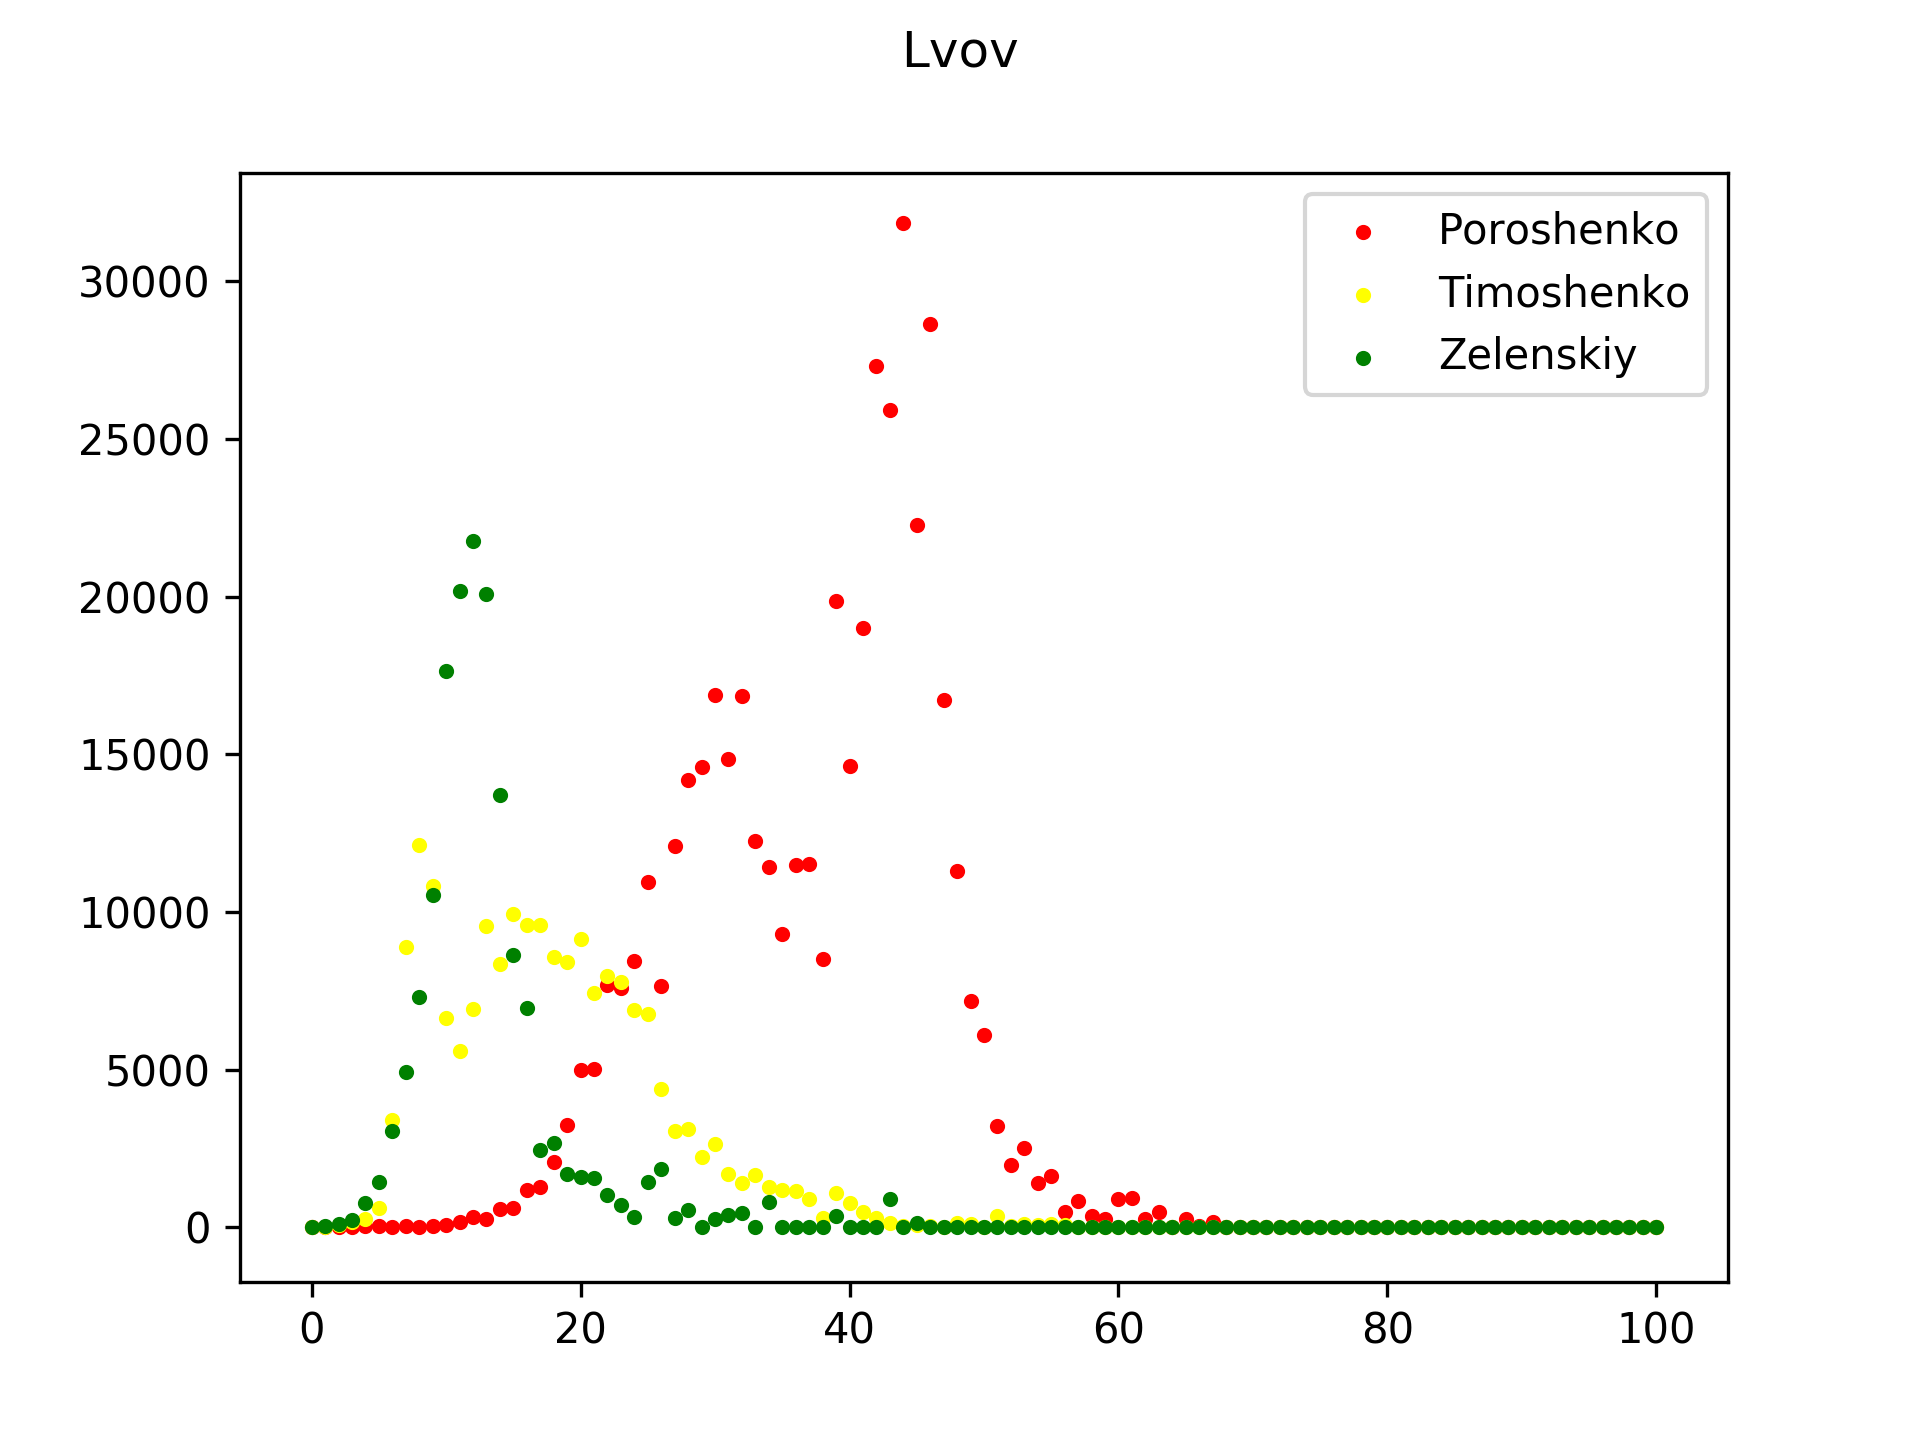
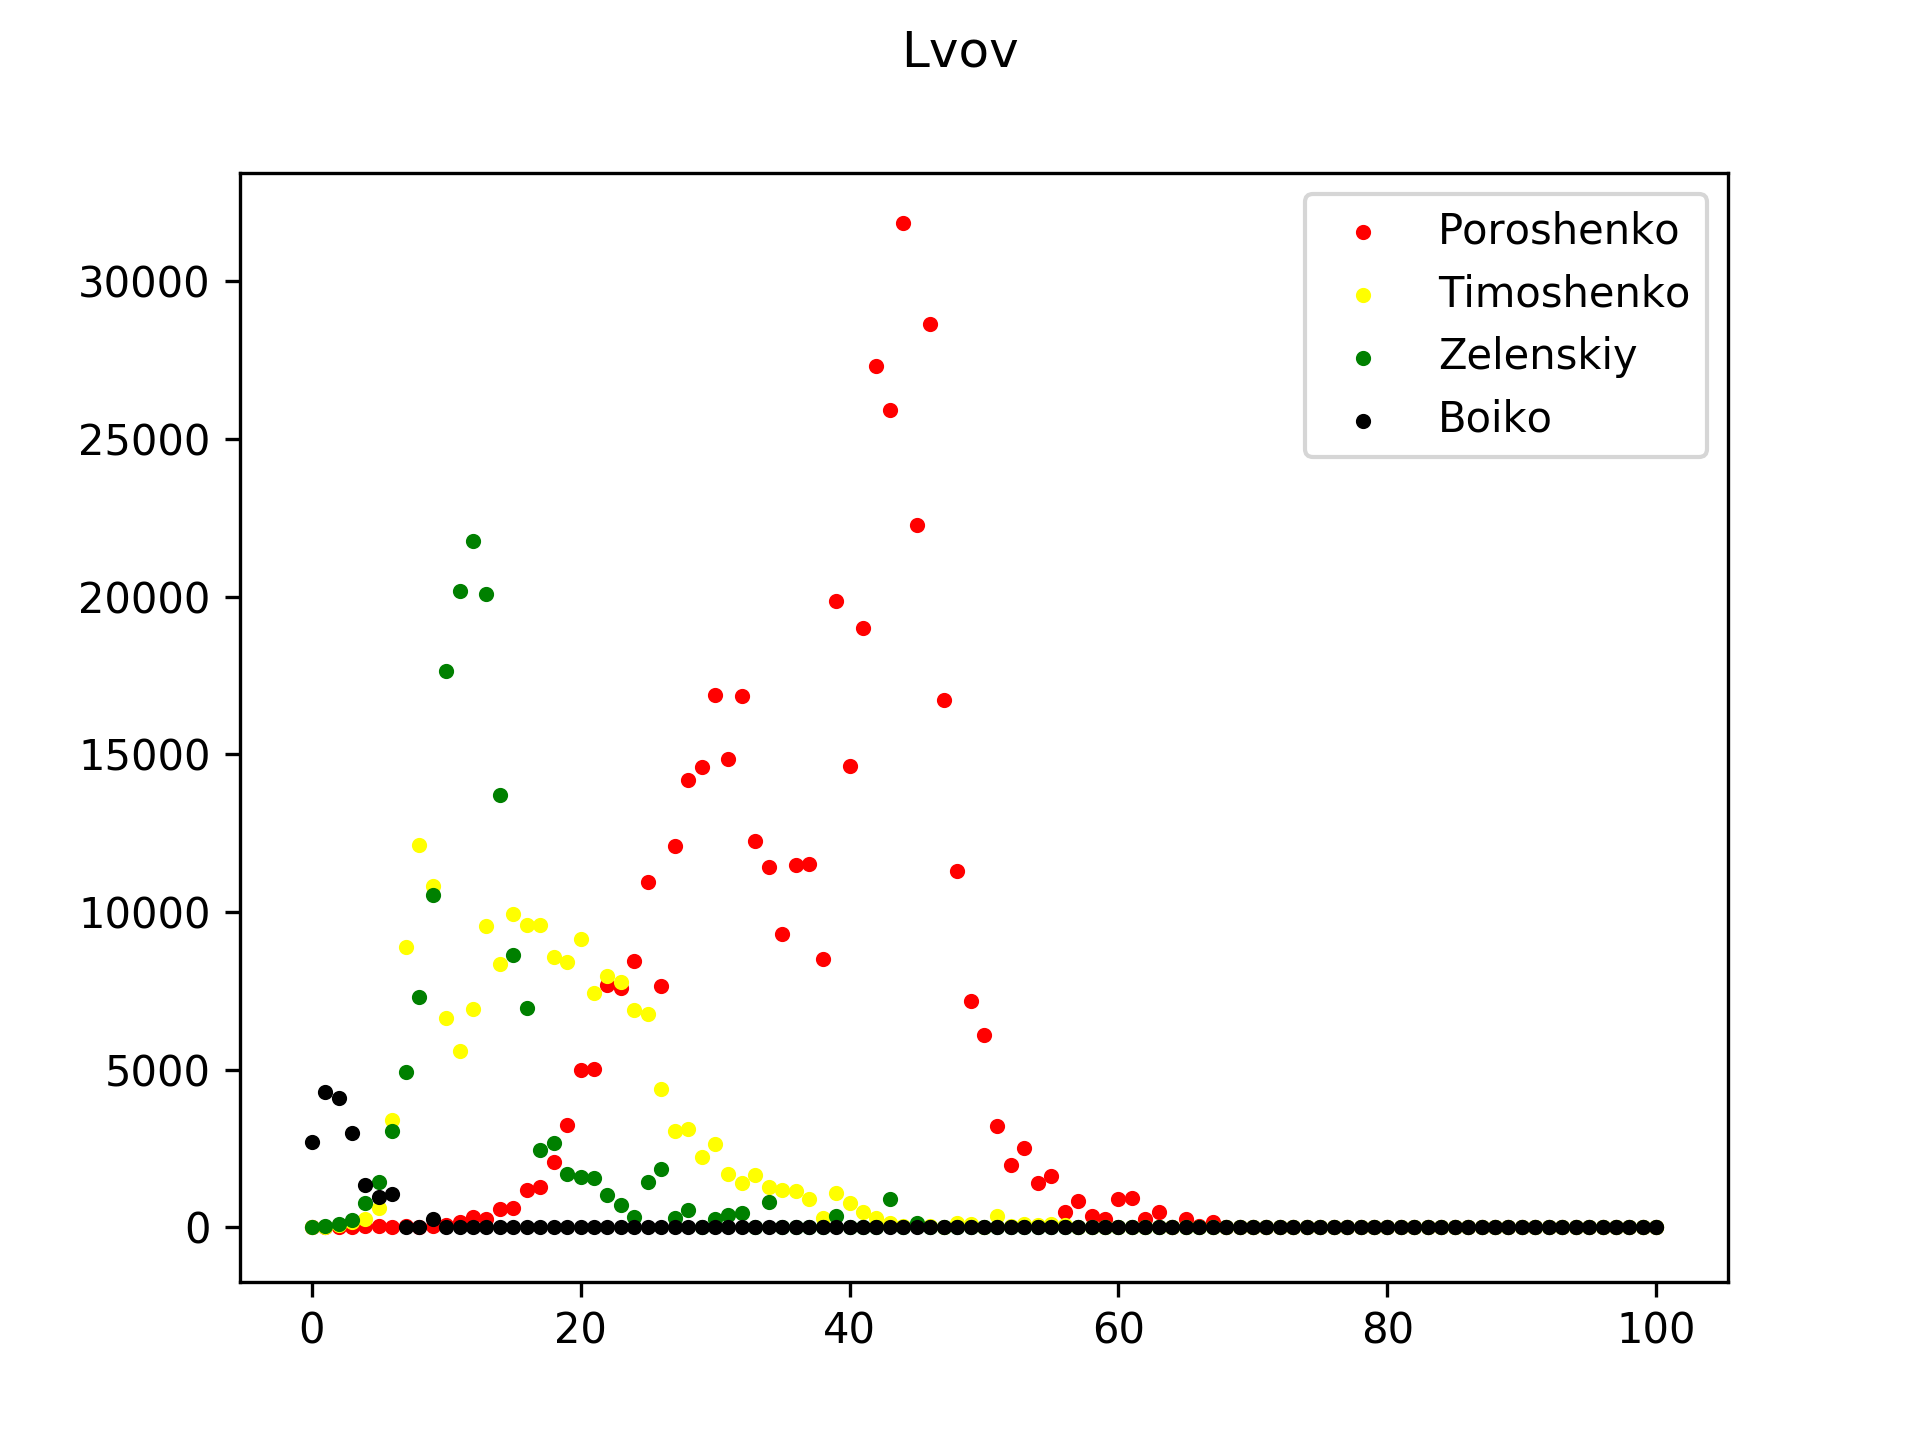
add Boiko

Changed region(s): [[0.1875, 0.8125, 0.875, 0.875], [0.75, 0.25, 0.8125, 0.3125], [0.1562, 0.75, 0.1875, 0.8125]]

diff --git a/hist.py b/hist.py
@@ -10,6 +10,7 @@ for i in range(101):
 poroshenkoBins = [0.0]*101
 timoshenkoBins = [0.0]*101
 zelenskiyBins = [0.0]*101
+boikoBins = [0.0]*101
 
 fPoroshenko = open("poroshenko.tsv", "w")
 fTimoshenko = open("timoshenko.tsv", "w")
@@ -28,10 +29,13 @@ with open("data.csv", "r") as f:
         poroshenko = int(row[39])
         timoshenko = int(row[45])
         zelenskiy = int(row[23])
+        boiko = int(row[14])
+        assert votes <= total
         assert poroshenko <= votes
         assert timoshenko <= votes
         assert zelenskiy <= votes
-        # print(total, votes, poroshenko, timoshenko, zelenskiy)
+        assert boiko <= votes
+        # print(total, votes, poroshenko, timoshenko, zelenskiy, boiko)
         if votes:
             turnover = float(votes)/total
             aturnover.append(turnover)
@@ -44,6 +48,7 @@ with open("data.csv", "r") as f:
             poroshenkoRatio = float(poroshenko)/float(votes)
             timoshenkoRatio = float(timoshenko)/float(votes)
             zelenskiyRatio = float(zelenskiy)/float(votes)
+            boikoRatio = float(boiko)/float(votes)
             bn = int(turnover * 100.)
             bins[bn][0] += 1
             bins[bn][1] += poroshenko
@@ -57,6 +62,8 @@ with open("data.csv", "r") as f:
             timoshenkoBins[timoshenkoBin] += timoshenko
             zelenskiyBin = int(100.0 * zelenskiyRatio)
             zelenskiyBins[zelenskiyBin] += zelenskiy
+            boikoBin = int(100.0 * boikoRatio)
+            boikoBins[boikoBin] += boiko
 
 plt.scatter(aturnover, aporoshenko, color='red', s=7, label="Poroshenko")
 plt.scatter(aturnover, atimoshenko, color='blue', s=7, label="Timoshenko")
@@ -73,6 +80,7 @@ plt.clf()
 plt.plot(abins, poroshenkoBins, color='red', label="Poroshenko")
 plt.plot(abins, timoshenkoBins, color='blue', label="Timoshenko")
 plt.plot(abins, zelenskiyBins, color='green', label="Zelenskiy")
+plt.plot(abins, boikoBins, color='black', label="Boiko")
 plt.legend()
 plt.suptitle("Ukraine")
 plt.savefig("ptzAll.png", dpi=300)

diff --git a/region_hist.py b/region_hist.py
@@ -13,7 +13,8 @@ def createBins():
     poroshenkoBins = [0.0]*101
     timoshenkoBins = [0.0]*101
     zelenskiyBins = [0.0]*101
-    return [poroshenkoBins, timoshenkoBins, zelenskiyBins]
+    boikoBins = [0.0]*101
+    return [poroshenkoBins, timoshenkoBins, zelenskiyBins, boikoBins]
 
 regions = {}
 for i in range(-1, 100):
@@ -28,6 +29,7 @@ with open("data.csv", "r") as f:
         poroshenko = int(row[39])
         timoshenko = int(row[45])
         zelenskiy = int(row[23])
+        boiko = int(row[14])
         region = int(row[-2])
         regionname[region] = row[-1]
         assert poroshenko <= votes
@@ -39,12 +41,15 @@ with open("data.csv", "r") as f:
             poroshenkoRatio = float(poroshenko)/float(votes)
             timoshenkoRatio = float(timoshenko)/float(votes)
             zelenskiyRatio = float(zelenskiy)/float(votes)
+            boikoRatio = float(boiko)/float(votes)
             poroshenkoBin = int(100.0 * poroshenkoRatio)
             aregion[0][poroshenkoBin] += poroshenko
             timoshenkoBin = int(100.0 * timoshenkoRatio)
             aregion[1][timoshenkoBin] += timoshenko
             zelenskiyBin = int(100.0 * zelenskiyRatio)
             aregion[2][zelenskiyBin] += zelenskiy
+            boikoBin = int(100.0 * boikoRatio)
+            aregion[3][boikoBin] += boiko
 
 bins = []
 for i in range(101):
@@ -58,6 +63,7 @@ for region in regions.keys():
     plt.scatter(bins, aregion[0], color='red', s=7, label="Poroshenko")
     plt.scatter(bins, aregion[1], color='yellow', s=7, label="Timoshenko")
     plt.scatter(bins, aregion[2], color='green', s=7, label="Zelenskiy")
+    plt.scatter(bins, aregion[3], color='black', s=7, label="Boiko")
     plt.legend()
     plt.suptitle(regionname[region])
     plt.savefig("ptz.%s.png" % regionname[region], dpi=300)
